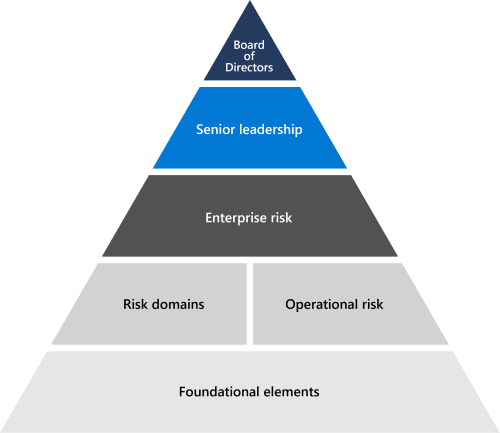
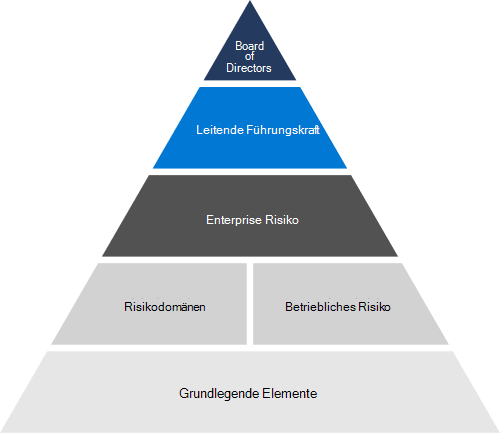
commit translated contents

diff --git a/compliance/regulatory/offering-FISC-Japan.md b/compliance/regulatory/offering-FISC-Japan.md
@@ -16,38 +16,38 @@ ms.collection:
 - MS-Compliance
 hideEdit: true
 titleSuffix: Microsoft Compliance
-ms.openlocfilehash: 27f0072091520317a6780e00331e0997022941a0
-ms.sourcegitcommit: 626b0076d133e588cd28598c149a7f272fc18bae
+ms.openlocfilehash: 88e85b1060374932320a4191c4eb4b2b665fe986
+ms.sourcegitcommit: fb379d1110a9a86c7f9bab8c484dc3f4b3dfd6f0
 ms.translationtype: HT
 ms.contentlocale: de-DE
-ms.lasthandoff: 11/30/2020
-ms.locfileid: "49509556"
+ms.lasthandoff: 06/23/2021
+ms.locfileid: "53088944"
 ---
 # <a name="center-for-financial-industry-information-systems-fisc"></a>Center for Financial Industry Information Systems (FISC)
 
 ## <a name="fisc-overview"></a>FISC – Übersicht
 
-Das Center for Financial Industry Information Systems (FISC) ist eine gemeinnützige Organisation, die vom japanischen Finanzministerium 1984 eingerichtet wurde, um die Sicherheit von Bankcomputersystemen in Japan zu unterstützen. Etwa 700 Unternehmen in Japan sind unterstützende Mitglieder, einschließlich großer Finanzinstitute, Versicherungen und Kreditunternehmen, Wertpapierunternehmen, Computerhersteller und Telekommunikationsunternehmen.
+Das Center for Financial Industry Information Systems (FISC) ist eine gemeinnützige Organisation, die vom japanischen Finanzministerium 1984 eingerichtet wurde, um die Sicherheit von Bankcomputersystemen in Japan zu unterstützen. Etwa 700 Unternehmen in Japan sind unterstützende Mitglieder, einschließlich großer Finanzinstitute, Versicherungen und Kreditunternehmen, Wertpapierunternehmen, Computerhersteller und Telekommunikationsunternehmen.
 
-In Zusammenarbeit mit seinen Mitgliedsinstitutionen, der Bank of Japan und Financial Services Agency (eine Finanzdienstleistungsaufsichtsbehörde, die für die Bereiche Bank, Wertpapiere und Börse sowie Versicherung in Japan zuständig ist) schuf das FISC Richtlinien für die Sicherheit von Bankeninformationssystemen. Diese enthalten grundlegende Prüfstandards für Computersystemkontrollen, Kontingentplanung im Notfall und die Entwicklung von Sicherheitsrichtlinien und -standards, die über 300 Kontrollen umfassen.
+In Zusammenarbeit mit seinen Mitgliedsinstitutionen, der Bank of Japan und Financial Services Agency (eine Finanzdienstleistungsaufsichtsbehörde, die für die Bereiche Bank, Wertpapiere und Börse sowie Versicherung in Japan zuständig ist) schuf das FISC Richtlinien für die Sicherheit von Bankeninformationssystemen. Diese enthalten grundlegende Prüfstandards für Computersystemkontrollen, Kontingentplanung im Notfall und die Entwicklung von Sicherheitsrichtlinien und -standards, die über 300 Kontrollen umfassen.
 
-Obwohl die Anwendung dieser Richtlinien in einer Cloud Computing-Umgebung gesetzlich nicht vorgeschrieben ist, haben die meisten Finanzinstitute in Japan, die Cloud Services implementieren, Informationssysteme entwickelt, die diese Sicherheitsstandards erfüllen, und es kann schwierig sein, ein Abweichen von diesen Standards zu rechtfertigen. (Die aktuellen Richtlinien aus dem Jahr 2015, Version 8 Supplemental Revised, enthalten zwei zusätzliche Revisionen zur Verwendung von Clouddiensten durch Finanzinstitute und Gegenmaßnahmen bei Cyberangriffen.)
+Obwohl die Anwendung dieser Richtlinien in einer Cloud Computing-Umgebung gesetzlich nicht vorgeschrieben ist, haben die meisten Finanzinstitute in Japan, die Cloud Services implementieren, Informationssysteme entwickelt, die diese Sicherheitsstandards erfüllen, und es kann schwierig sein, ein Abweichen von diesen Standards zu rechtfertigen. (Die aktuellen Richtlinien aus dem Jahr 2015, Version 8 Supplemental Revised, enthalten zwei zusätzliche Revisionen zur Verwendung von Clouddiensten durch Finanzinstitute und Gegenmaßnahmen bei Cyberangriffen.)
 
 Die Konformität mit diesem Rahmenwerk ist gesetzlich nicht vorgeschrieben und wird vom FISC weder geprüft noch anderweitig validiert.
 
 ## <a name="microsoft-and-fisc"></a>Microsoft und FISC
 
-Microsoft beauftragte externe Prüfer, zu überprüfen, ob Microsoft Azure, Dynamics 365 und Microsoft Office 365 die Anforderungen der FISC-Sicherheitsrichtlinien für Computersysteme für Finanzinstitute 9. Auflage überarbeitet erfüllen. Microsoft legte Compliancenachweise in den folgenden Bereichen vor:
+Microsoft hat externe Gutachter beauftragt, um zu überprüfen, dass Microsoft Azure, Dynamics 365 und Microsoft Office 365 die Anforderungen der überarbeiteten 9. Auflage der FISC-Sicherheitsrichtlinien für Computersysteme für Finanzinstitute erfüllen. Microsoft hat die Compliance in jedem der folgenden Bereiche nachgewiesen:
 
 - Datencenterrichtlinien für Gebäude und Computerräume, Stromversorgung, Klimatisierung, Datencenter- und Einrichtungsüberwachung.
 - Betriebliche Richtlinien für Organisationen, Schulung, Zugriffssteuerung, Systementwicklung und Prüfung.
 - Technische Richtlinien für Maßnahmen zur Verbesserung der Zuverlässigkeit von Hardware und Software und für Gegenmaßnahmen bei Sicherheitsrisiken, einschließlich Datensicherheit, Prävention im Hinblick auf nicht autorisierte Nutzung, Bedrohungserkennung und Notfallwiederherstellung.
 
-Finanzinstitute können sich auf diese Evaluierung der Compliance in diesen drei Bereichen für die relevanten Infrastruktur- und Plattformdienste von Azure, Dynamics 365, Office 365 und Microsoft Cloud App Security verlassen.
+Finanzinstitute können sich auf diese Evaluierung der Compliance in diesen drei Bereichen für die relevanten Infrastruktur- und Plattformdienste von Azure, Dynamics 365, Office 365 und Microsoft Cloud App Security verlassen.
 
 [Erfahren Sie mehr über die Bewertung externer Prüfer und Links zu den Websites der Prüfer (nur Japanisch)](https://cloudblogs.microsoft.com/industry-blog/ja-jp/financial-services/2018/05/11/fisc_v9/).
 
-## <a name="microsoft-in-scope-cloud-services"></a>In-Scope-Cloud-Dienste von Microsoft
+## <a name="microsoft-in-scope-cloud-services"></a>Microsoft-Clouddienste im Leistungsumfang
 
 - [Azure](https://aka.ms/AzureCompliance)
 - Microsoft Cloud App Security
@@ -74,7 +74,7 @@ Sie können auch Sicherheitsempfehlungen ([in Japanisch](https://aka.ms/microsof
 
 **Kann ich die Antworten von Microsoft auf dieses Rahmenwerk für den Qualifizierungsprozess meiner Organisation verwenden?**
 
-Ja. Auch wenn die Antworten von Microsoft im Hinblick auf dieses Regelwerk von Dritten als konform bestätigt wurden, sind Kunden für die Überprüfung der Compliance ihrer in Azure oder Office 365 implementierten Lösungen verantwortlich.
+Ja. Auch wenn die Antworten von Microsoft im Hinblick auf dieses Regelwerk von Dritten als konform bestätigt wurden, sind Kunden für die Überprüfung der Compliance ihrer in Azure oder Office 365 implementierten Lösungen verantwortlich.
 
 ## <a name="resources"></a>Ressourcen
 

diff --git a/compliance/regulatory/offering-EU-US-Privacy-Shield.md b/compliance/regulatory/offering-EU-US-Privacy-Shield.md
@@ -16,12 +16,12 @@ ms.collection:
 - MS-Compliance
 hideEdit: true
 titleSuffix: Microsoft Compliance
-ms.openlocfilehash: ae241dcff38ac764c2b57f559e95c079d6e59cd7
-ms.sourcegitcommit: 21ed42335efd37774ff5d17d9586d5546147241a
+ms.openlocfilehash: afe763500a4c8f3af261870af53216c6f6f95d39
+ms.sourcegitcommit: fb379d1110a9a86c7f9bab8c484dc3f4b3dfd6f0
 ms.translationtype: HT
 ms.contentlocale: de-DE
-ms.lasthandoff: 02/05/2021
-ms.locfileid: "50121234"
+ms.lasthandoff: 06/23/2021
+ms.locfileid: "53088954"
 ---
 # <a name="eu-us-and-swiss-us-privacy-shield-frameworks"></a>EU-US und Swiss-US Privacy Shield Frameworks
 
@@ -29,13 +29,13 @@ ms.locfileid: "50121234"
 
 Gemäß dem Privacy Shield-Programm wurden die [EU-US und Swiss-US Privacy Shield Frameworks](https://www.privacyshield.gov/welcome) vom US-Handelsministerium und der Europäischen Kommission bzw. der Bundesverwaltung der Schweiz entworfen, um Unternehmen auf beiden Seiten des Atlantiks einen Mechanismus zur Einhaltung von Datenschutzbestimmungen für die Übertragung von personenbezogenen Daten aus der Europäischen Union und der Schweiz in die Vereinigten Staaten bereitzustellen. Die International Trade Administration innerhalb des Handelsministeriums verwaltet das Privacy Shield-Programm in den Vereinigten Staaten.
 
-Die Übertragung personenbezogener Daten außerhalb der EU und der Schweiz unterliegt den Gesetzen der Europäischen Union und der Schweiz, die im allgemeinen verhindern, dass personenbezogene Daten in Länder außerhalb des EWR übertragen werden, es sei denn, es gibt angemessene Schutzebenen. Die Privacy Shield Frameworks und die Standard-Vertragsklauseln (oder [EU-Standardvertragsklauseln](offering-EU-Model-Clauses.md)) sind zwei Mechanismen, die diese Datenschutzebene bereitstellen.
+Die Übertragung personenbezogener Daten außerhalb der EU und der Schweiz unterliegt den Gesetzen der Europäischen Union und der Schweiz, die im allgemeinen verhindern, dass personenbezogene Daten in Länder außerhalb des EWR übertragen werden, es sei denn, es gibt "angemessene" Schutzebenen. Die Privacy Shield Frameworks und die Standard-Vertragsklauseln (oder [EU-Standardvertragsklauseln](offering-EU-Model-Clauses.md)) sind zwei Mechanismen, die diese Datenschutzebene bereitstellen.
 
 Die 23 [Privacy Shield Principles](https://www.privacyshield.gov/article?id=Requirements-of-Participation) definieren eine Reihe von Voraussetzungen für die Nutzung und Verarbeitung personenbezogener Daten, die aus der EU übertragen werden, sowie Zugangs- und Streitschlichtungsmechanismen, die von teilnehmenden Unternehmen für EU-Bürger bereitgestellt werden müssen. Unternehmen müssen Einzelpersonen mitteilen, wie ihre Daten verarbeitet werden, deren Verwendungszwecke einschränken, die Daten während der gesamten Aufbewahrungsdauer schützen, und die Haftung für die Übertragung der Daten an Dritte übernehmen. Zu den Voraussetzungen gehören außerdem die Bereitstellung von kostenlosen und barrierefreien Streitschlichtungsverfahren und Transparenz im Zusammenhang mit Behördenanfragen im Hinblick auf personenbezogene Daten.
 
 ## <a name="microsoft-and-the-eu-us-and-swiss-us-privacy-shield-frameworks"></a>Microsoft und die EU-US und Swiss-US Privacy Shield Frameworks
 
-Um sich freiwillig an den EU-US und Swiss-US Privacy Shield Frameworks zu beteiligen, müssen sich Unternehmen in den USA öffentlich zur Einhaltung der Anforderungen der Frameworks verpflichten und ihre Einhaltung beim US-Handelsministerium selbst zertifizieren. Nach der öffentlichen Verpflichtung und selbständigen Zertifizierung ist diese Verpflichtung nach US-amerikanischem Recht durchsetzbar.
+Um sich freiwillig an den EU-US und Swiss-US Privacy Shield Frameworks zu beteiligen, müssen sich Unternehmen in den USA öffentlich zur Einhaltung der Anforderungen der Frameworks verpflichten und ihre Einhaltung beim US-Handelsministerium selbst zertifizieren. Sobald sie sich öffentlich verpflichten und sich selbst zertifizieren, wird diese Verpflichtung nach US-Recht durchsetzbar.
 
 Microsoft hat sich öffentlich zur Einhaltung der [Privacy Shield Principles](https://www.privacyshield.gov/article?id=Requirements-of-Participation) verpflichtet und seine Einhaltung gemäß den Anforderungen entsprechend zertifiziert. Unsere Teilnahme gilt für alle von Microsoft verarbeiteten personenbezogenen Daten, die aus der Europäischen Union, aus dem Europäischen Wirtschaftsraum (EWR) und aus der Schweiz in die USA übertragen werden. Außerdem profitieren Kunden von Microsoft Business Cloud Services von der Einhaltung der Standard-Vertragsklauseln (auch bezeichnet als [EU-Standardvertragsklauseln](offering-eu-model-clauses.md)) in den [Microsoft-Onlineservicebedingungen](https://www.microsoftvolumelicensing.com/DocumentSearch.aspx?Mode=3&DocumentTypeId=31), es sei denn, der Kunde hat diese Klauseln abgelehnt.
 
@@ -67,7 +67,7 @@ Datenschutz in Azure: Azure bietet Kunden sowohl standardmäßig als auch option
 
 **Welche Daten werden aus der EU oder der Schweiz gemäß der Microsoft Privacy Shield-Vereinbarung in die Vereinigten Staaten übertragen?**
 
-Wie in unseren Online-Servicebedingungen festgelegt, können personenbezogene Daten, die von Microsoft im Namen des Kunden verarbeitet werden, in die Vereinigten Staaten oder in ein anderes Land, in dem Microsoft oder seine verbundenen Unternehmen oder Subunternehmer Einrichtungen unterhalten, übertragen werden. Derartige Übermittlungen aus der EU müssen jedoch die Anforderungen des EU-Rechts erfüllen.
+Wie in unseren Online-Servicebedingungen festgelegt, können personenbezogene Daten, die von Microsoft im Namen des Kunden verarbeitet werden, in die Vereinigten Staaten oder in ein anderes Land, in dem Microsoft oder seine verbundenen Unternehmen oder Subunternehmer Einrichtungen unterhalten, übertragen werden. Solche Übertragungen aus der EU müssen jedoch die Anforderungen des EU-Rechts erfüllen.
 
 Bei der Übertragung personenbezogener Daten aus der EU in die Vereinigten Staaten durch:
 

diff --git a/compliance/regulatory/gdpr-manage-gdpr-data-subject-requests-with-the-dsr-case-tool.md b/compliance/regulatory/gdpr-manage-gdpr-data-subject-requests-with-the-dsr-case-tool.md
@@ -9,7 +9,7 @@ manager: laurawi
 audience: Admin
 ms.topic: article
 ms.service: O365-seccomp
-localization_priority: Normal
+localization_priority: Priority
 search.appverid:
 - MET150
 ms.collection:
@@ -20,12 +20,12 @@ ms.collection:
 ms.assetid: ce9eb942-3589-42cb-88fd-1576ecb09c5c
 ms.custom: seo-marvel-apr2020
 hideEdit: true
-ms.openlocfilehash: f89faf915e31e375674020fda1fe56fe7cd78410
-ms.sourcegitcommit: 024137a15ab23d26cac5ec14c36f3577fd8a0cc4
+ms.openlocfilehash: 8448d9a77352491ce0066dbf74ed5aea0e8f7a29
+ms.sourcegitcommit: fb379d1110a9a86c7f9bab8c484dc3f4b3dfd6f0
 ms.translationtype: HT
 ms.contentlocale: de-DE
-ms.lasthandoff: 04/01/2021
-ms.locfileid: "51496060"
+ms.lasthandoff: 06/23/2021
+ms.locfileid: "53089578"
 ---
 # <a name="manage-gdpr-data-subject-requests-with-the-dsr-case-tool-in-the-security--compliance-center"></a>Verwalten von Anträgen betroffener Personen nach der DSGVO mit dem DSR-Falltool im Security & Compliance Center
 
@@ -126,7 +126,7 @@ Im nächsten Schritt erstellen wir einen DSR-Fall (Fall für einen Antrag einer 
     
 ## <a name="step-3-run-the-search-query"></a>Schritt 3: Ausführen der Suchabfrage
 
-Nachdem Sie einen DSR-Fall erstellt und Mitglieder hinzugefügt haben, besteht der nächste Schritt in der Ausführung der integrierten Suche, die dem Fall zugeordnet ist. Diese standardmäßige Suchabfrage führt die folgenden Aufgaben aus:
+Nachdem Sie einen DSR-Fall erstellt und Mitglieder hinzugefügt haben, besteht der nächste Schritt in der Ausführung der integrierten Suche, die dem Fall zugeordnet ist. Diese Standardsuchabfrage führt Folgendes aus:
   
 - Alle Postfächer in Ihrer Organisation werden nach allen E-Mail-Elementen durchsucht, die die Person gesendet oder erhalten hat. Hierzu wird die E-Mail-Eigenschaft *Participants*  verwendet, über die in allen Personenfeldern in einer E-Mail-Nachricht nach der betroffenen Person gesucht wird. Diese Eigenschaft gibt Elemente zurück, bei denen die betroffene Person in den Feldern **Von**, **An**, **CC** und **BCC** gefunden wurde. Öffentliche Ordner in Exchange Online werden ebenfalls nach Nachrichten durchsucht, die von der betroffenen Person gesendet oder empfangen wurden. 
     
@@ -373,13 +373,13 @@ Wenn Sie Daten aus dem Office-Roamingdienst exportieren, werden diese in einem s
 
 Es wird davon abgeraten, teilweise indizierte Elemente (auch als nicht indizierte Elemente bezeichnet) aus der integrierten Suche, die beim Erstellen eines DSR-Falls erstellt wird, zu exportieren. Dies liegt daran, dass die Suchergebnisse höchstwahrscheinlich teilweise indizierte Elemente für andere Benutzer in Ihrer Organisation und nicht nur solche für die betroffene Person enthalten. Es empfiehlt sich, stattdessen eine separate, dem DSR-Fall zugeordnete Inhaltssuche zu erstellen, die nur die mit der betroffenen Person in Zusammenhang stehenden teilweise indizierten Elemente exportiert. 
   
-Nachfolgend wird ein allgemeines Verfahren zum Exportieren teilweise indizierter Elemente beschrieben. Nachdem die Elemente exportiert wurden, können Sie sie überprüfen, um festzustellen, ob eines für den Zugriff oder den Export infolge eines Antrag einer betroffenen Person infrage kommt.
+Hier ist ein allgemeiner Prozess zum Exportieren von teilweise indizierten Elementen. Nachdem die Elemente exportiert wurden, können Sie sie überprüfen, um festzustellen, ob eines für den Zugriff oder den Export infolge eines Antrag einer betroffenen Person infrage kommt.
   
 1. Öffnen Sie den DSR-Fall, und erstellen Sie auf der Seite **Suchen** eine Suche. 
     
 2. Konfigurieren Sie die Suchabfrage und die zu durchsuchenden Inhaltsspeicherorte anhand der folgenden Kriterien:
     
-    - Verwenden Sie eine leere Stichwortabfrage. Dadurch werden alle Elemente an den durchsuchten Inhaltsspeicherorten zurückgegeben.
+    - Verwenden Sie eine leere/leere Stichwortabfrage. Dadurch werden alle Elemente an den durchsuchten Inhaltsspeicherorten zurückgegeben.
     
     - Durchsuchen Sie nur das Exchange Online-Postfach der betroffenen Person sowie ihr OneDrive-Konto.
     

diff --git a/compliance/regulatory/gdpr-for-office-online-server.md b/compliance/regulatory/gdpr-for-office-online-server.md
@@ -15,12 +15,12 @@ ms.custom:
 - seo-marvel-mar2020
 titleSuffix: Microsoft GDPR
 hideEdit: true
-ms.openlocfilehash: b047b4ccf7fa9745a7237de79bbaa198e079865e
-ms.sourcegitcommit: 024137a15ab23d26cac5ec14c36f3577fd8a0cc4
+ms.openlocfilehash: 298f0efe74539c8a8bd10330cfeb80894ef9edb1
+ms.sourcegitcommit: fb379d1110a9a86c7f9bab8c484dc3f4b3dfd6f0
 ms.translationtype: HT
 ms.contentlocale: de-DE
-ms.lasthandoff: 04/01/2021
-ms.locfileid: "51496020"
+ms.lasthandoff: 06/23/2021
+ms.locfileid: "53089014"
 ---
 # <a name="gdpr-for-office-web-apps-server-and-office-online-server"></a>DSGVO für Office Web Apps Server und Office Online Server
 
@@ -32,7 +32,7 @@ Jede Protokollzeile enthält eine CorrelationID. Verwandte Protokollzeilen teile
 
 ## <a name="gathering-logs"></a>Erfassen von Protokollen
 
-Um alle Protokolle zu erfassen, die beispielsweise UserID 1 zugeordnet sind, müssen zunächst alle Sitzungen erfasst werden, die UserID 1 zugeordnet sind (d. h. SessionID 1 und SessionID 2). Der nächste Schritt wäre das Erfassen aller Korrelationen, die SessionID 1 (d. h. CorrelationIDs 1, 2 und 3) und SessionID 2 (d. h. CorrelationID 4) zugeordnet sind. Zum Schluss müssen alle Protokolle erfasst werden, die den einzelnen Korrelationen in der Liste zugeordnet sind.
+Um beispielsweise alle mit der UserID 1 verknüpften Protokolle zu sammeln, besteht der erste Schritt darin, alle Sitzungen zu sammeln, die mit UserID 1 verknüpft sind (d. h. SessionID 1 und SessionID2). Im nächsten Schritt werden alle Korrelationen erfasst, die SessionID 1 (d. h. CorrelationIDs 1, 2 und 3) und SessionID 2 (d. h. CorrelationID 4) zugeordnet sind. Sammeln Sie dann alle Protokolle, die mit jeder der Korrelationen in der Liste verknüpft sind.
 
 1. ULS Viewer starten
 
@@ -80,10 +80,10 @@ Office-Protokolle enthalten eine Vielzahl von verschiedenen Arten von Daten. Nac
 
 - Leistungsdaten über die App und/oder bestimmte Features der App
 
-- Allgemeine Informationen zum Standort des Computers des Benutzers (z. B. Land/Region, Bundesland und Stadt, die aus der IP-Adresse abgeleitet werden), jedoch kein präziser geografischer Standort.
+- Allgemeine Informationen zum Standort des Computers des Benutzers (z. B. Land/Region, Bundesland und Stadt, die aus der IP-Adresse abgeleitet werden), jedoch kein präziser geografischer Standort.
 
-- Grundlegende Metadaten zum Browser, z. B. Browsername und Version, und zum Computer, z. B. Betriebssystemtyp und Version
+- Grundlegende Metadaten über den Browser, z. B. Browsername und -version, und den Computer, z. B. Betriebssystemtyp und -version
 
-- Fehlermeldungen aus dem Dokumenthost (z. B. OneDrive, SharePoint, Exchange)
+- Fehlermeldungen vom Dokumentenhost (z. B. OneDrive, SharePoint, Exchange)
 
 - Informationen zu App-internen Prozessen, die mit keiner Aktion des Benutzers zusammenhängen

diff --git a/compliance/regulatory/offering-KNF-Poland.md b/compliance/regulatory/offering-KNF-Poland.md
@@ -16,12 +16,12 @@ ms.collection:
 - MS-Compliance
 hideEdit: true
 titleSuffix: Microsoft Compliance
-ms.openlocfilehash: 7cb696db772f0bffda701c7ecadbb768c2575343
-ms.sourcegitcommit: 21ed42335efd37774ff5d17d9586d5546147241a
+ms.openlocfilehash: 68d5fc100ac504eaed07f45dabbfe37c82e1c66a
+ms.sourcegitcommit: fb379d1110a9a86c7f9bab8c484dc3f4b3dfd6f0
 ms.translationtype: HT
 ms.contentlocale: de-DE
-ms.lasthandoff: 02/05/2021
-ms.locfileid: "50120154"
+ms.lasthandoff: 06/23/2021
+ms.locfileid: "53089588"
 ---
 # <a name="financial-supervision-authority-knf-poland"></a>Polnische Finanzaufsichtsbehörde (KNF)
 
@@ -29,7 +29,7 @@ ms.locfileid: "50120154"
 
 Die [polnische Finanzaufsichtsbehörde](https://www.knf.gov.pl/en/) ([Komisja Nadzoru Finansowego](https://www.knf.gov.pl/), KNF) ist die Aufsichtsbehörde für Finanzen in Polen, die den Finanzmarkt beaufsichtigt, was die Aufsicht über die Banken, Kapitalmärkte, Versicherungen, Pensionssysteme und E-Geld-Institute mit einschließt.
 
-Die KNF handelt in Abstimmung mit der [Europäischen Bankaufsichtsbehörde](https://eba.europa.eu/about-us) (EBA), die „eine unabhängige Behörde ist, die sich für eine wirksame und kohärente aufsichtsrechtliche Regulierung und Aufsicht im gesamten EU-Bankensektor einsetzt“. Zu diesem Zweck veröffentlichte die EBA ihre [Empfehlungen zum Outsourcing an Cloud-Dienstanbieter](https://eba.europa.eu/documents/10180/2170121/Final+draft+Recommendations+on+Cloud+Outsourcing+%28EBA-Rec-2017-03%29.pdf/5fa5cdde-3219-4e95-946d-0c0d05494362), die einen umfassenden Ansatz für das Cloud Computing durch Finanzinstitute in der EU vorgeben.
+Die KNF handelt in Abstimmung mit der [Europäischen Bankaufsichtsbehörde](https://eba.europa.eu/about-us) (EBA), die „eine unabhängige Behörde ist, die sich für eine wirksame und kohärente aufsichtsrechtliche Regulierung und Aufsicht im gesamten EU-Bankensektor einsetzt“. Zu diesem Zweck veröffentlichte die EBA ihre [Empfehlungen zum Outsourcing ab Cloud-Dienstanbieter](https://eba.europa.eu/documents/10180/2170121/Final+draft+Recommendations+on+Cloud+Outsourcing+%28EBA-Rec-2017-03%29.pdf/5fa5cdde-3219-4e95-946d-0c0d05494362), die einen umfassenden Ansatz für das Cloud Computing durch Finanzinstitute in der EU vorgaben.
 
 Es gibt mehrere Voraussetzungen und Richtlinien, die Finanzinstitute in Polen beachten sollten, wenn sie ihre Geschäftsfunktionen und Daten in die Cloud verlagern:
 
